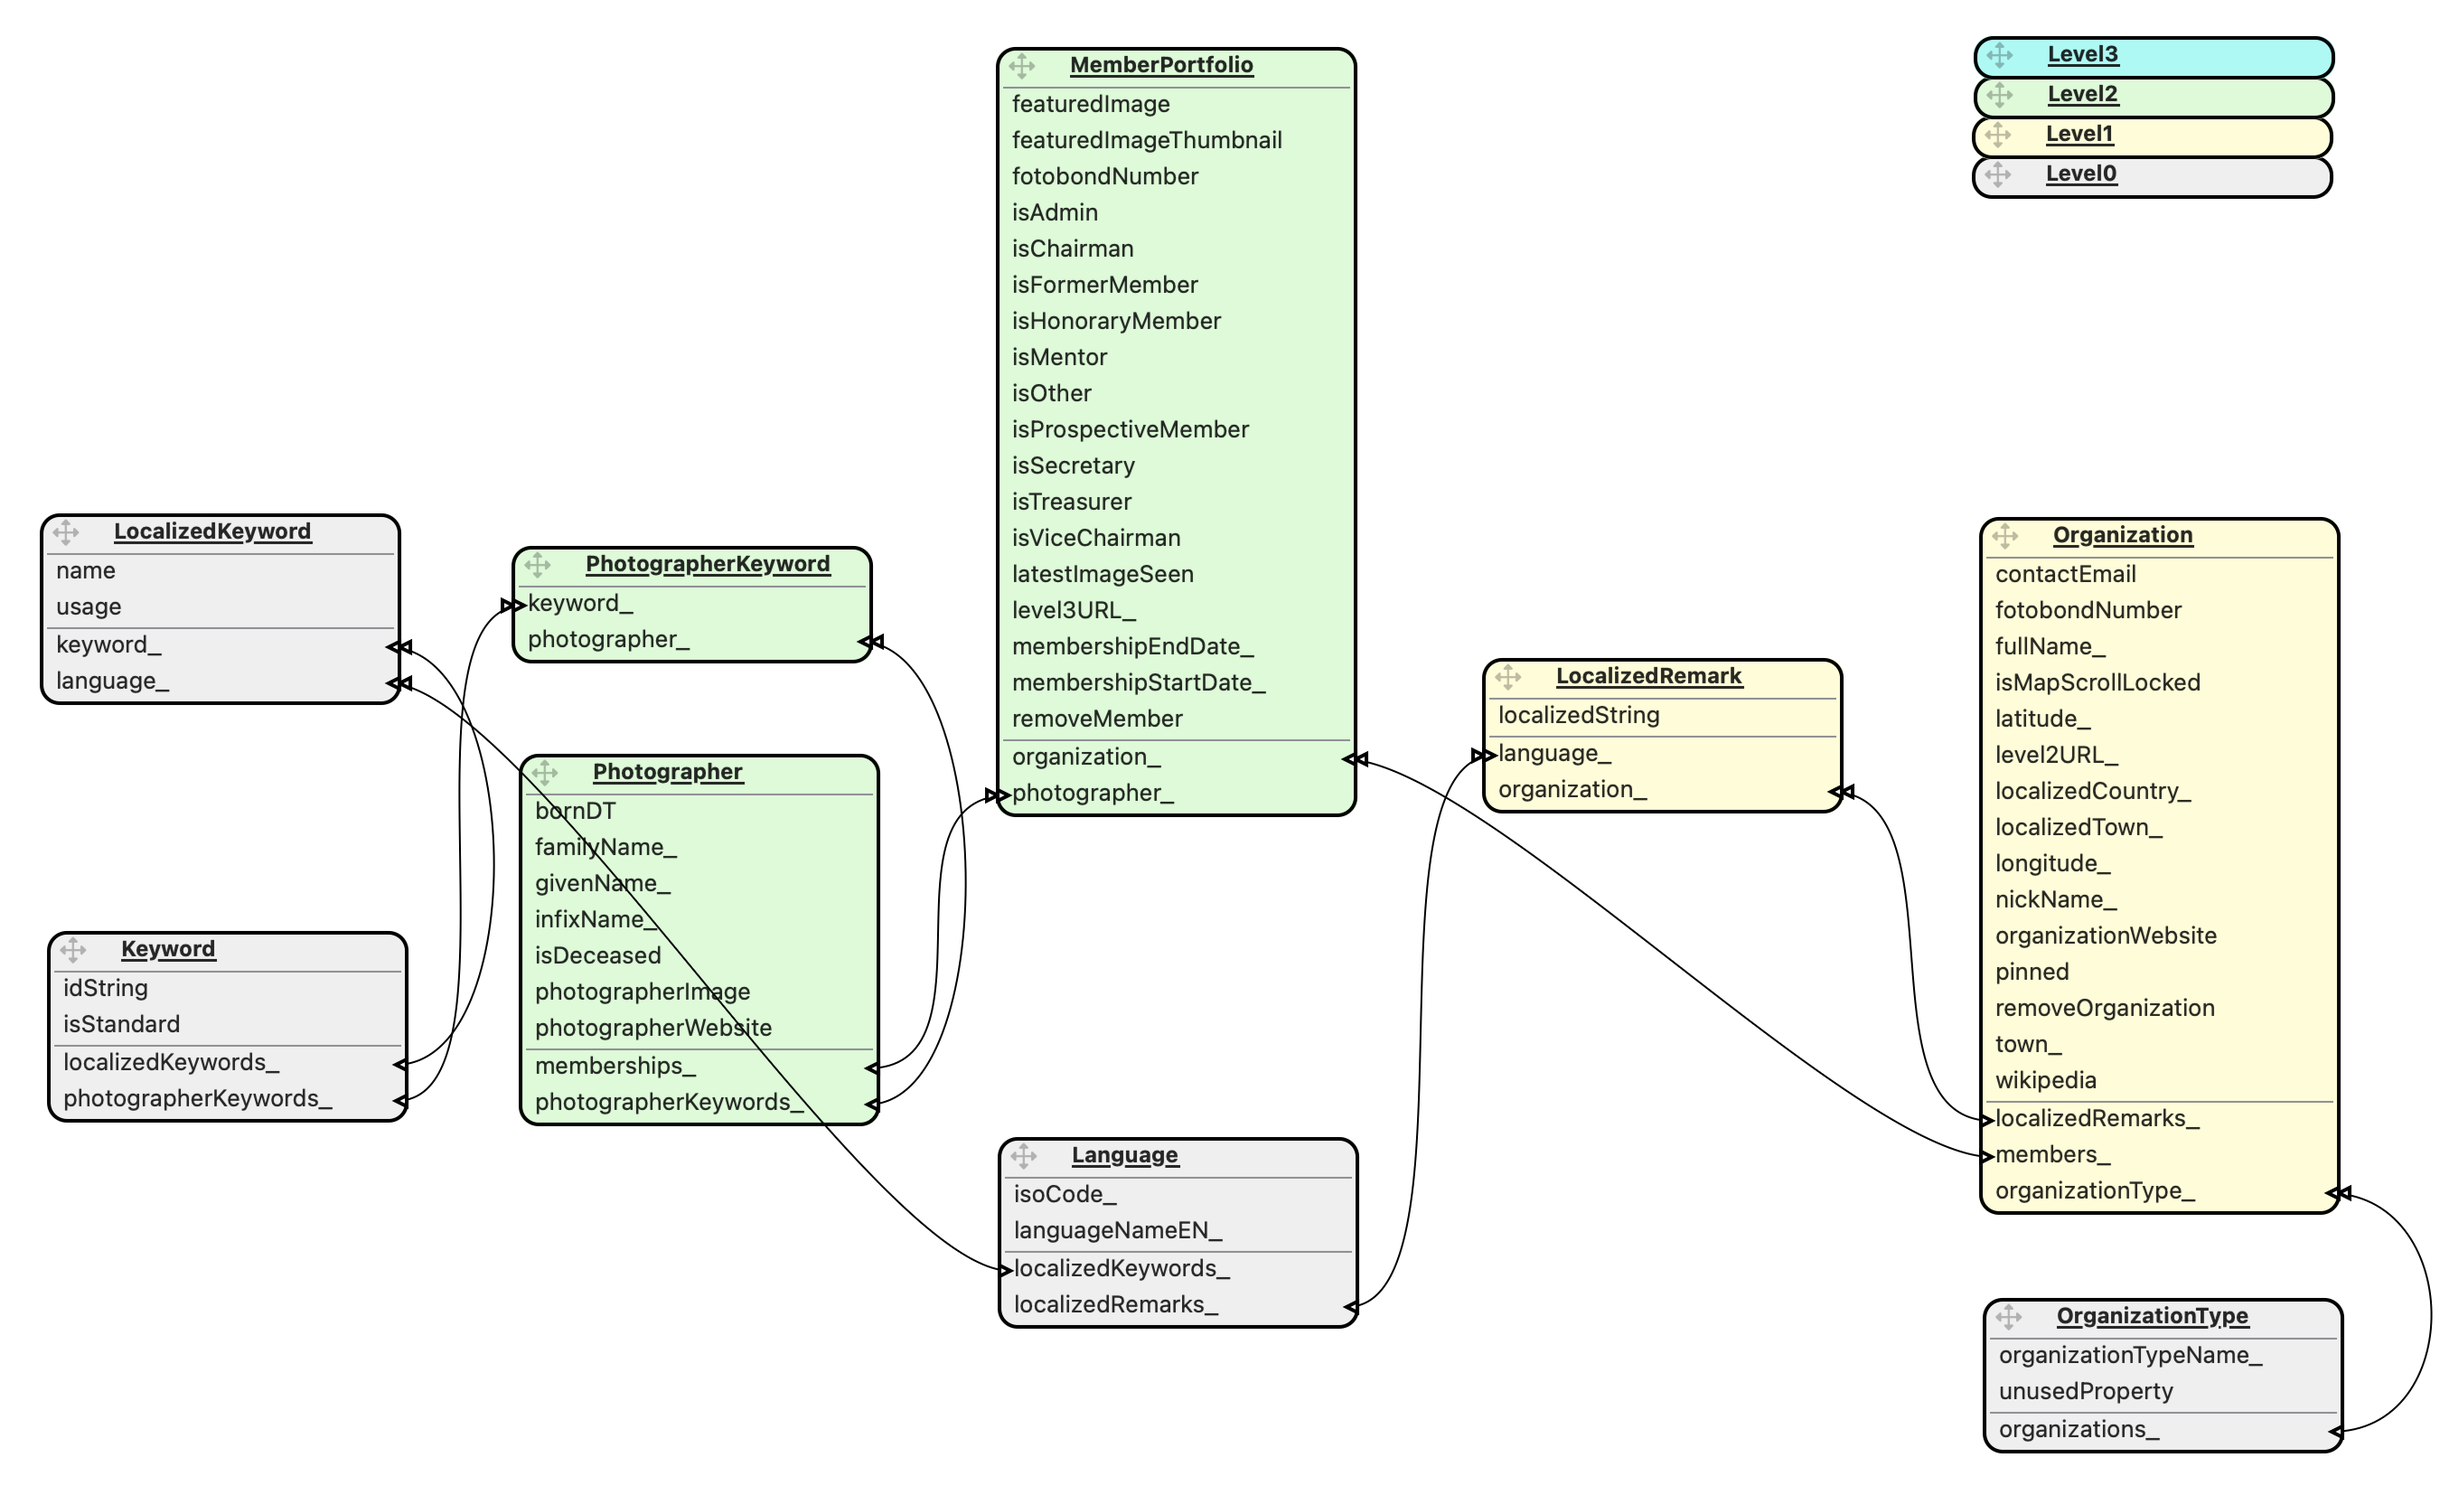
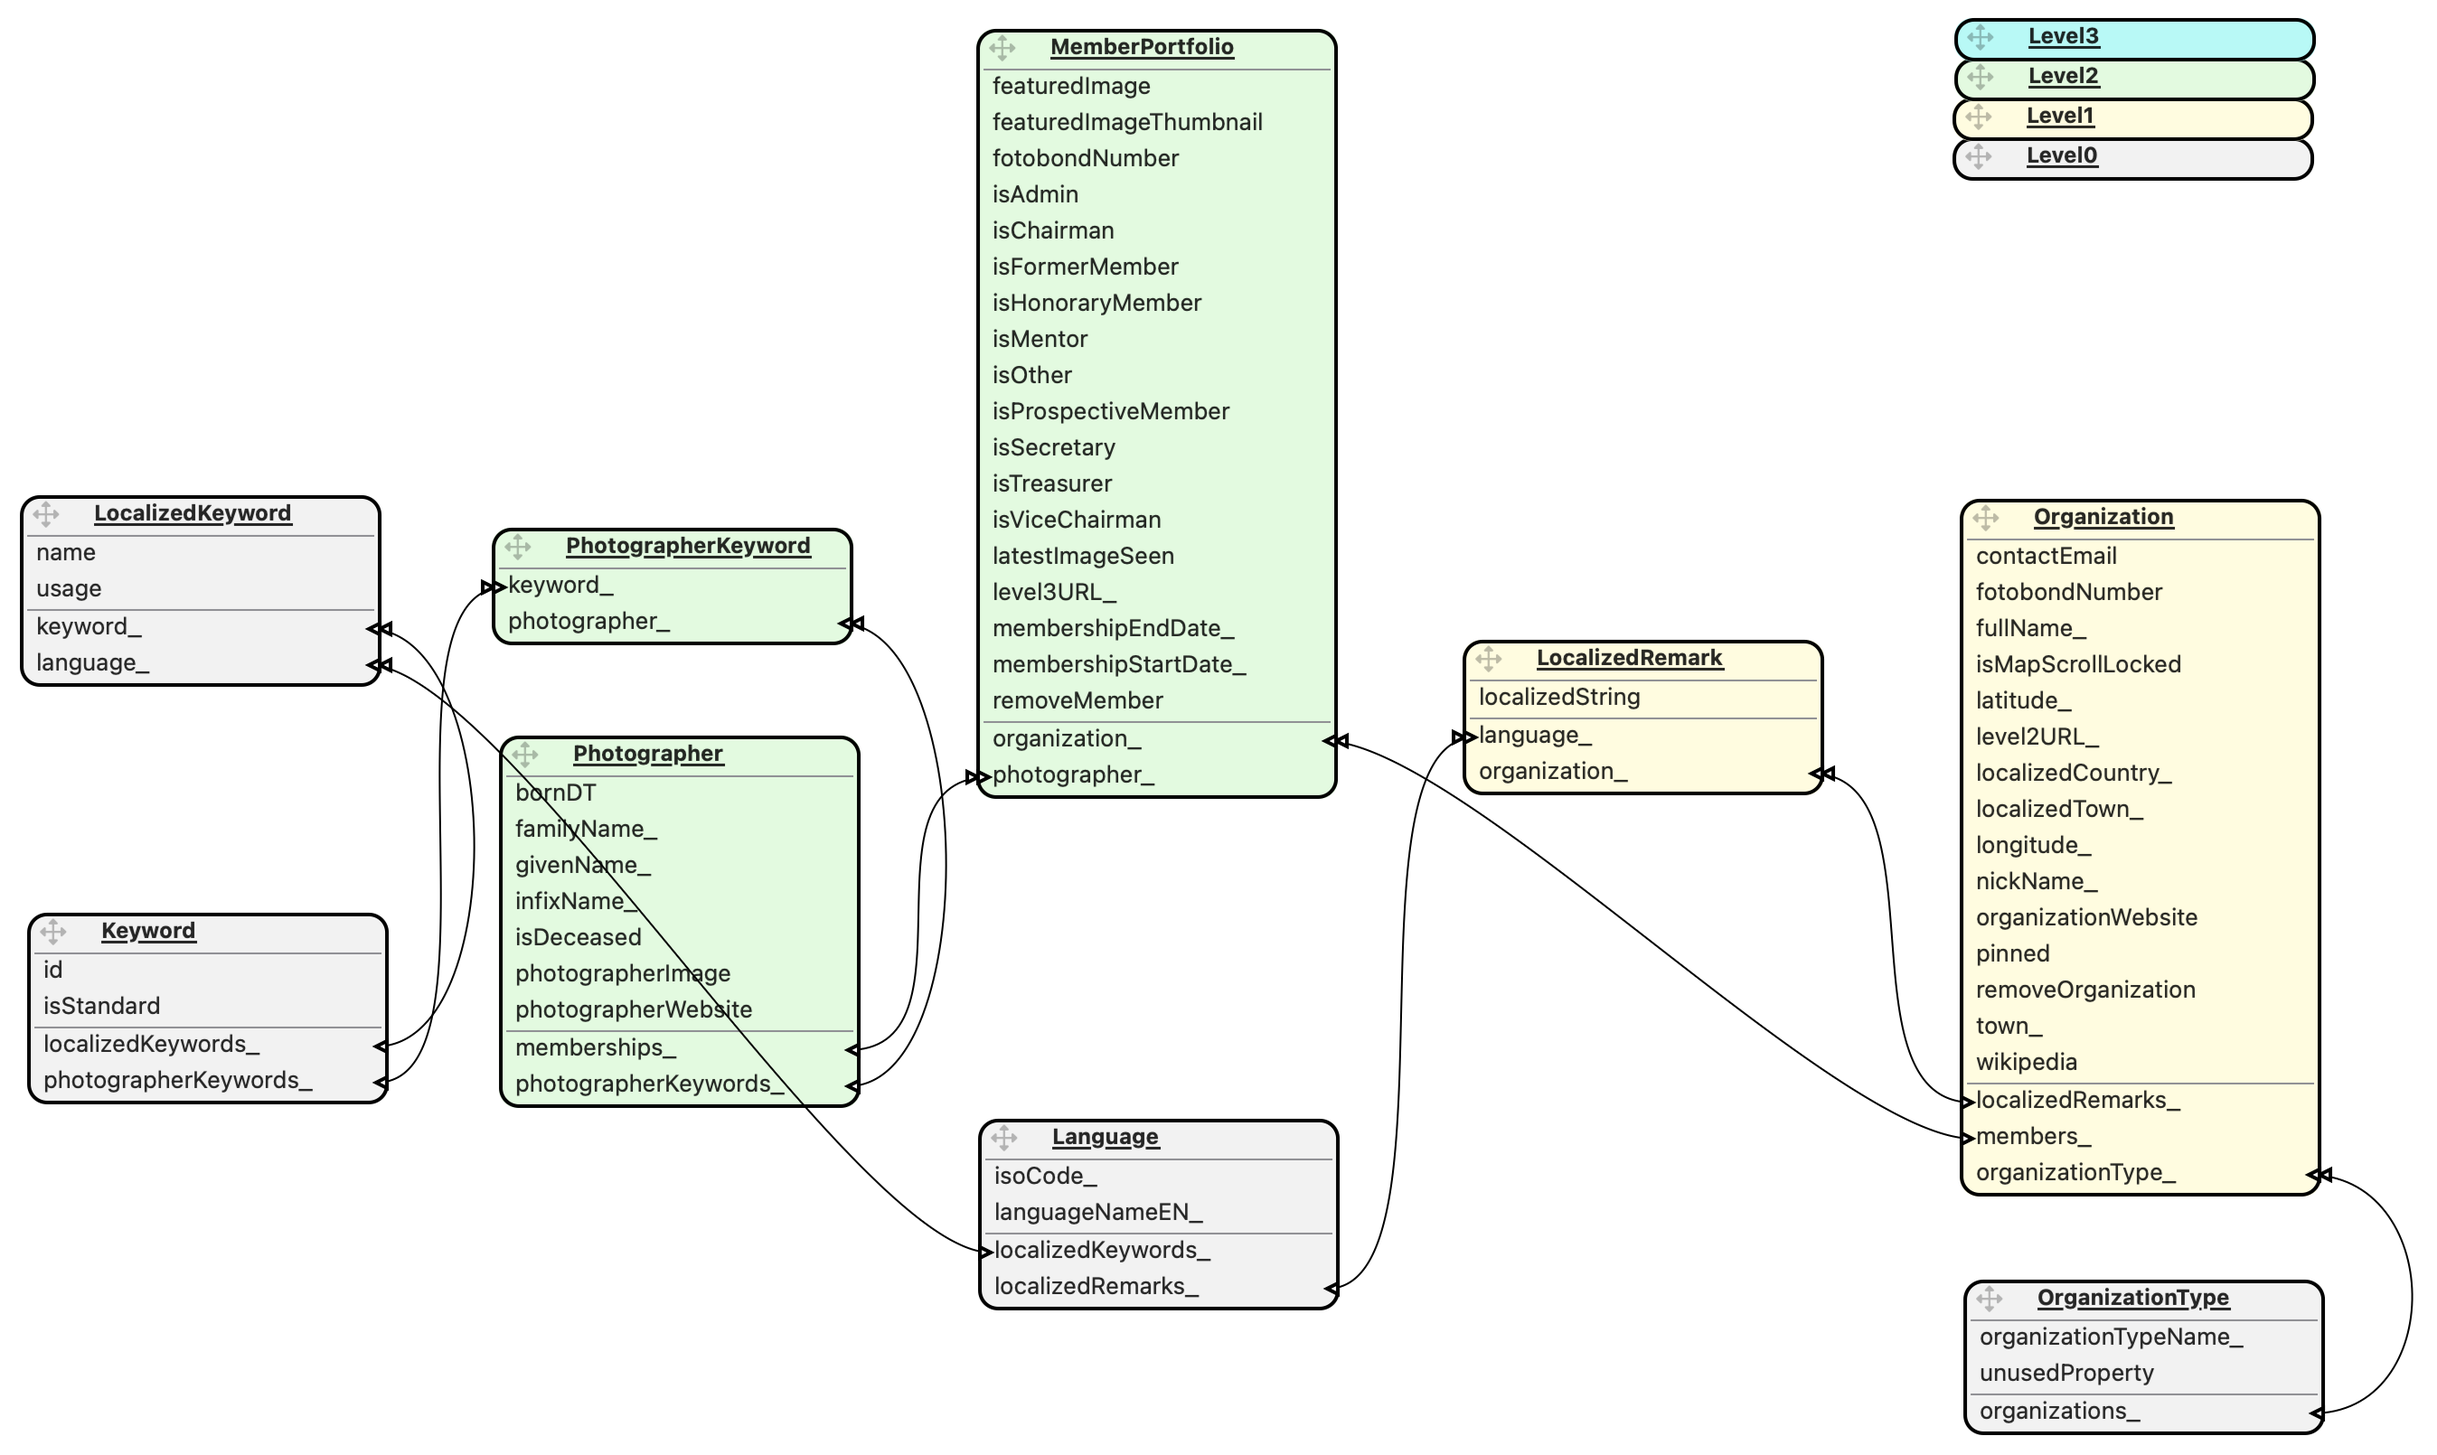
Added Keyword.swift
Former-commit-id: 299a3b2c8e47a7904de0d5c24def9050723b5b14

diff --git a/Photo Club Hub/ViewModel/Photographer/Keyword.swift b/Photo Club Hub/ViewModel/Photographer/Keyword.swift
@@ -5,4 +5,134 @@
 //  Created by Peter van den Hamer on 19/02/2025.
 //
 
-import Foundation
+import CoreData // for NSManagedObjectContext
+
+extension Keyword {
+
+    // `id` is persisted in CoreData as `id_` but has to be public because it is the `id` for the Identifiable protocol
+    public var id: String {
+        get {
+            if id_ != nil { // shouldn't be nil in the first place
+                return id_!
+            } else {
+                ifDebugFatalError("CoreData id_ for Keyword is nil", file: #fileID, line: #line)
+                return "No id for Keyword"
+            }
+        }
+        set {
+            id_ = newValue.capitalized // ensure CoreData always contains string with first letter capitalized
+        }
+    }
+
+    // MARK: - find or create
+
+    // Find existing Keyword object or create a new one.
+    // Update existing attributes or fill the new object
+    fileprivate static func findCreateUpdate(context: NSManagedObjectContext, // can be foreground of background context
+                                             id: String,
+                                             isStandard: Bool
+                                            ) -> Keyword {
+
+        // execute fetchRequest to get keyword object for id=id. Query could return more than 1.
+        let predicateFormat: String = "id_ = %@" // avoid localization
+        let predicate = NSPredicate(format: predicateFormat, argumentArray: [id])
+        let fetchRequest: NSFetchRequest<Keyword> = Keyword.fetchRequest()
+        fetchRequest.predicate = predicate
+        let keywords: [Keyword] = (try? context.fetch(fetchRequest)) ?? [] // nil = absolute failure
+
+        if keywords.count > 1 { // there is actually a Core Data constraint to prevent this
+            ifDebugFatalError("Query returned multiple (\(keywords.count)) Keywords with code \(id)",
+                              file: #fileID, line: #line) // likely deprecation of #fileID in Swift 6.0
+            // in release mode, log that there are multiple clubs, but continue using the first one.
+        }
+
+        if let keyword = keywords.first { // already exists, so update non-identifying attributes
+            if keyword.update(context: context, isStandard: isStandard) {
+                print("Updated info for keyword \"\(keyword.id)\" that became \(isStandard ? "" : "non-")standard")
+                if Settings.extraCoreDataSaves {
+                    save(context: context, keyword: keyword, create: false)
+                }
+            }
+            return keyword
+        } else {
+            // cannot use Language() initializer because we must use supplied context
+            let entity = NSEntityDescription.entity(forEntityName: "Keyword", in: context)!
+            let keyword = Keyword(entity: entity, insertInto: context)
+            keyword.id = id // immediately set it to a non-nil value
+            _ = keyword.update(context: context, isStandard: isStandard) // ignore whether update made changes
+            if Settings.extraCoreDataSaves {
+                save(context: context, keyword: keyword, create: true)
+            }
+            print("Created new Keyword for \"\(keyword.id)\"")
+            return keyword
+        }
+
+    }
+
+    // Find existing non-standard Keyword object or create a new one.
+    // Update existing attributes or fill the new object
+    static func findCreateUpdateStandard(context: NSManagedObjectContext, // can be foreground of background context
+                                         id: String
+                                        ) -> Keyword {
+        findCreateUpdate(context: context, id: id, isStandard: true)
+    }
+
+    // Find existing non-standard Keyword object or create a new one.
+    // Update existing attributes or fill the new object
+    static func findCreateUpdateNonStandard(context: NSManagedObjectContext, // can be foreground of background context
+                                            id: String
+                                           ) -> Keyword {
+        findCreateUpdate(context: context, id: id, isStandard: false)
+    }
+
+    // Update non-identifying attributes/properties within an existing instance of class Keyword if needed.
+    // Returns whether an update was needed.
+    fileprivate func update(context: NSManagedObjectContext,
+                            isStandard: Bool) -> Bool {
+
+        var modified: Bool = false
+
+        if self.isStandard != isStandard {
+            self.isStandard = isStandard
+            modified = true
+        }
+
+        if modified && Settings.extraCoreDataSaves {
+            do {
+                try context.save() // update modified properties of a Keyword object
+             } catch {
+                 ifDebugFatalError("Update failed for Keyword \"\(id)\"",
+                                  file: #fileID, line: #line) // likely deprecation of #fileID in Swift 6.0
+                // in release mode, if save() fails, just continue
+            }
+        }
+
+        return modified
+    }
+
+    // MARK: - find or create
+
+    func delete(context: NSManagedObjectContext) { // for testing?
+        context.delete(self)
+        do {
+            try context.save()
+        } catch {
+            context.rollback()
+            ifDebugFatalError("Could not save the deletion of Keyword \"\(self.id)\"")
+        }
+    }
+
+    fileprivate static func save(context: NSManagedObjectContext, keyword: Keyword, create: Bool) {
+        do {
+            try context.save()
+        } catch {
+            context.rollback()
+            if create {
+                ifDebugFatalError("Could not save created Keyword \"\(keyword.id)\"")
+            } else {
+                ifDebugFatalError("Could not save updated property of Keyword \"\(keyword.id)\"")
+            }
+        }
+    }
+
+}

diff --git a/Photo Club Hub/ViewModel/Language.swift b/Photo Club Hub/ViewModel/Language.swift
@@ -88,7 +88,7 @@ extension Language {
             // cannot use Language() initializer because we must use supplied context
             let entity = NSEntityDescription.entity(forEntityName: "Language", in: context)!
             let language = Language(entity: entity, insertInto: context)
-            language.isoCodeCaps = isoCode
+            language.isoCodeCaps = isoCode // immediately set it to a non-nil value
             _ = language.update(context: context, nameEN: nameEN)
             if Settings.extraCoreDataSaves {
                 save(context: context, language: language, create: true)
@@ -98,7 +98,8 @@ extension Language {
         }
     }
 
-    // Update non-identifying attributes/properties within an existing instance of class Language
+    // Update non-identifying attributes/properties within an existing instance of class Language if needed.
+    // Returns whether an update was needed.
     fileprivate func update(context: NSManagedObjectContext,
                             nameEN: String) -> Bool { // change language.name if needed
 

diff --git a/Photo Club Hub/App/PhotoClubHubApp.swift b/Photo Club Hub/App/PhotoClubHubApp.swift
@@ -25,7 +25,6 @@ struct PhotoClubHubApp: App {
 
         // update version number shown in iOS Settings
         UserDefaults.standard.set(Bundle.main.fullVersion, forKey: "version_preference")
-
         if Settings.manualDataLoading || Settings.dataResetPending272 {
             Model.deleteAllCoreDataObjects() // keep resetting if manualDataLoading=true
         } else { // initialize some constant records for Language and OrganizationType (for stability)
